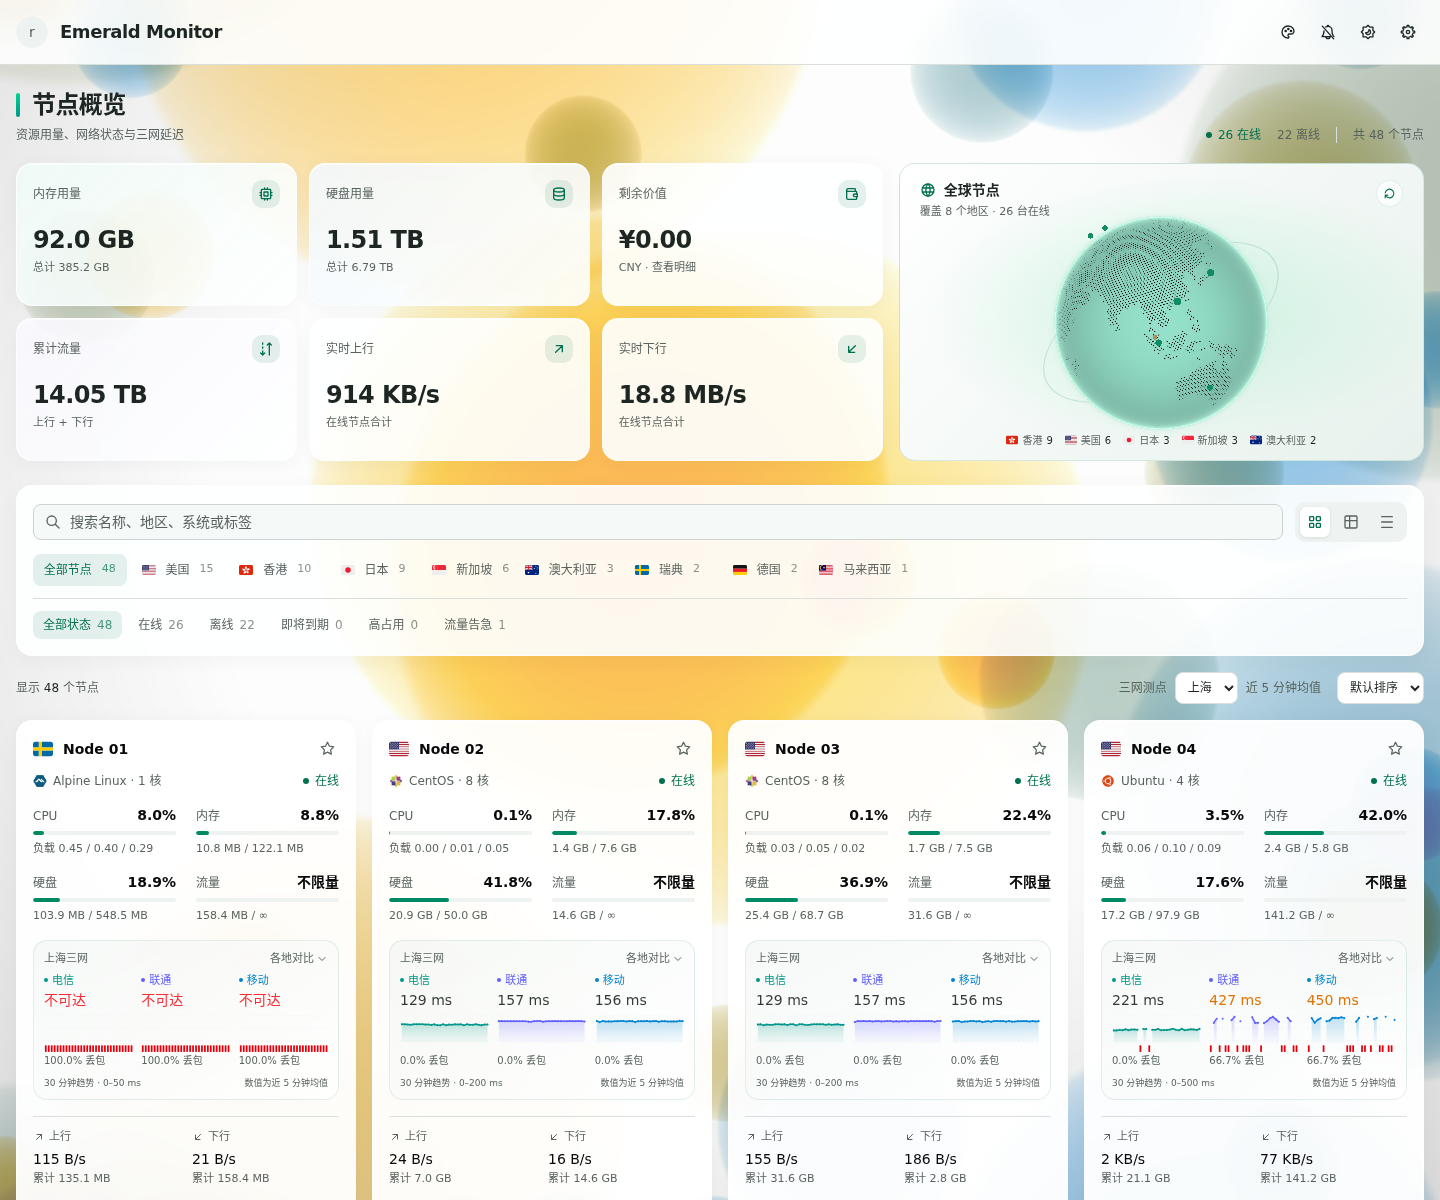
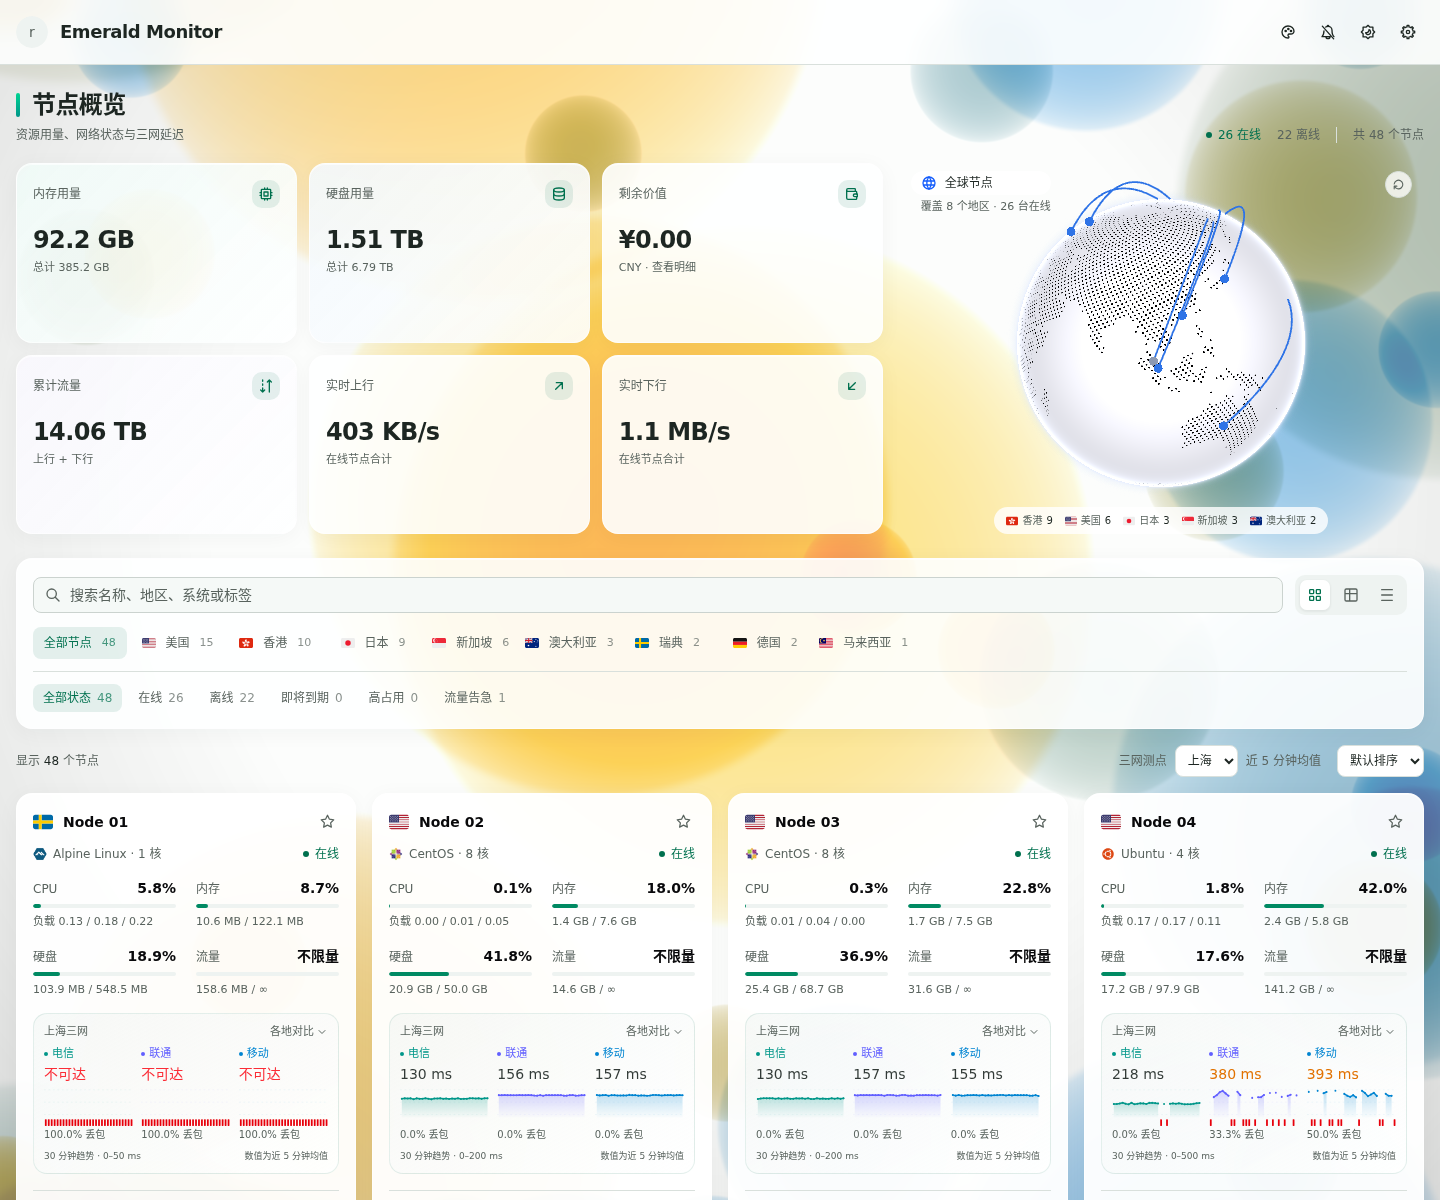
Restore the original silver and blue globe appearance

diff --git a/src/components/NodeEarthGlobe.vue b/src/components/NodeEarthGlobe.vue
@@ -1,5 +1,5 @@
 <script setup lang="ts">
-import type { COBEOptions, Globe } from 'cobe'
+import type { Arc, COBEOptions, Globe } from 'cobe'
 import type { NodeData } from '@/stores/nodes'
 import { Icon } from '@iconify/vue'
 import { useDocumentVisibility, useElementSize, useElementVisibility, useRafFn } from '@vueuse/core'
@@ -37,13 +37,20 @@ const regions = computed(() => {
 })
 const online = computed(() => props.nodes.filter(node => node.online).length)
 const colors = computed(() => app.isDark
-  ? { dark: 1, baseColor: [0.11, 0.29, 0.28], glowColor: [0.08, 0.21, 0.20], markerColor: [0.38, 1, 0.79], mapBrightness: 5.5 }
-  : { dark: 0, baseColor: [0.53, 0.80, 0.72], glowColor: [0.76, 0.92, 0.85], markerColor: [0.06, 0.55, 0.40], mapBrightness: 2.8 })
+  ? { dark: 1, baseColor: [0.12, 0.16, 0.3], glowColor: [0.05, 0.08, 0.2], markerColor: [0.4, 0.75, 1], arcColor: [0.4, 0.7, 1], mapBrightness: 8 }
+  : { dark: 0, baseColor: [0.97, 0.97, 1], glowColor: [0.9, 0.93, 1], markerColor: [0.18, 0.45, 0.9], arcColor: [0.18, 0.45, 0.9], mapBrightness: 7 })
 const markers = computed(() => regions.value.map(region => ({
   location: region.coord,
-  size: Math.min(0.085, 0.028 + Math.sqrt(region.total) * 0.009),
-  color: (region.online ? colors.value.markerColor : [0.70, 0.55, 0.35]) as [number, number, number],
+  size: 0.05,
+  color: (region.online ? colors.value.markerColor : [0.55, 0.60, 0.70]) as [number, number, number],
 })))
+
+// Region arcs retain the original globe's visual signature. They illustrate
+// geographic distribution, not measured network connections.
+const arcs = computed<Arc[]>(() => {
+  const [hub, ...others] = [...regions.value].sort((a, b) => b.total - a.total || a.code.localeCompare(b.code))
+  return hub ? others.map(region => ({ from: hub.coord, to: region.coord })) : []
+})
 
 const initialPhi = -Math.PI / 2 - 105 * Math.PI / 180
 let phi = initialPhi
@@ -57,12 +64,12 @@ let globe: Globe | undefined
 let dirty = true
 let paletteDirty = true
 function palette(): Partial<COBEOptions> {
-  return { ...colors.value, baseColor: colors.value.baseColor as [number, number, number], glowColor: colors.value.glowColor as [number, number, number], markerColor: colors.value.markerColor as [number, number, number] }
+  return { ...colors.value, baseColor: colors.value.baseColor as [number, number, number], glowColor: colors.value.glowColor as [number, number, number], markerColor: colors.value.markerColor as [number, number, number], arcColor: colors.value.arcColor as [number, number, number] }
 }
 function draw() {
   if (!globe)
     return
-  globe.update({ ...(paletteDirty ? { ...palette(), markers: markers.value } : {}), phi, theta, width: width.value || 320, height: height.value || 320 })
+  globe.update({ ...(paletteDirty ? { ...palette(), markers: markers.value, arcs: arcs.value } : {}), phi, theta, width: width.value || 320, height: height.value || 320 })
   paletteDirty = false
   dirty = false
 }
@@ -80,6 +87,12 @@ const { pause, resume } = useRafFn(({ delta }) => {
 }, { immediate: false, fpsLimit: 30 })
 const visible = computed(() => active.value && inView.value && visibility.value === 'visible' && !failed.value)
 watch(visible, value => value ? resume() : pause())
+watch(rotating, (value) => {
+  if (!value) {
+    targetPhi = phi
+    targetTheta = theta
+  }
+})
 watch([width, height], () => {
   dirty = true
 })
@@ -98,15 +111,20 @@ function start() {
       devicePixelRatio: Math.min(window.devicePixelRatio || 1, perfTier.value === 'low' ? 1 : 1.5),
       phi,
       theta,
-      diffuse: 1.35,
-      mapSamples: 18000,
+      diffuse: 1.6,
+      mapSamples: window.innerWidth < 768 ? 8000 : 14000,
       mapBrightness: colors.value.mapBrightness,
       dark: colors.value.dark,
       baseColor: colors.value.baseColor as [number, number, number],
       markerColor: colors.value.markerColor as [number, number, number],
       glowColor: colors.value.glowColor as [number, number, number],
       markers: markers.value,
-      scale: 1.02,
+      arcs: arcs.value,
+      arcColor: colors.value.arcColor as [number, number, number],
+      arcWidth: 1,
+      arcHeight: 0.4,
+      markerElevation: 0,
+      scale: 1,
       opacity: 1,
     })
     failed.value = false
@@ -165,50 +183,58 @@ onBeforeUnmount(() => {
 </script>
 
 <template>
-  <div class="network-globe relative isolate flex h-full min-h-64 flex-col overflow-hidden rounded-2xl border border-primary/15">
-    <div class="relative z-10 flex items-start justify-between px-5 pt-4">
+  <div class="network-globe relative isolate flex h-full min-h-64 flex-col">
+    <div class="absolute inset-x-0 top-0 z-10 flex items-start justify-between px-3 pt-2">
       <div>
-        <div class="flex items-center gap-2 text-sm font-semibold">
-          <Icon icon="tabler:world" width="16" class="text-primary" />全球节点
+        <div class="flex items-center gap-2 rounded-full bg-card/80 px-2.5 py-1 text-xs font-medium">
+          <Icon icon="tabler:world" width="16" class="text-blue-600 dark:text-sky-300" />全球节点
         </div>
-        <div class="mt-1 text-[11px] text-muted-foreground">
+        <div class="mt-1 pl-2.5 text-[11px] text-muted-foreground">
           覆盖 {{ regions.length }} 个地区 · {{ online }} 台在线
         </div>
       </div>
       <div v-if="!failed" class="flex items-center gap-1">
-        <button v-if="!app.stopEarth && perfTier !== 'low'" type="button" class="rounded-full border border-primary/10 bg-card/70 p-1.5 text-primary hover:bg-card focus-visible:outline-2" :aria-label="paused ? '继续地球旋转' : '暂停地球旋转'" @click="paused = !paused">
+        <button v-if="!app.stopEarth && perfTier !== 'low'" type="button" class="rounded-full border border-border bg-card/80 p-1.5 text-muted-foreground hover:bg-card focus-visible:outline-2" :aria-label="paused ? '继续地球旋转' : '暂停地球旋转'" @click="paused = !paused">
           <Icon :icon="paused ? 'tabler:player-play' : 'tabler:player-pause'" width="13" />
         </button>
-        <button type="button" aria-label="重置地球视角" class="rounded-full border border-primary/10 bg-card/70 p-1.5 text-primary hover:bg-card focus-visible:outline-2" @click="reset">
+        <button type="button" aria-label="重置地球视角" class="rounded-full border border-border bg-card/80 p-1.5 text-muted-foreground hover:bg-card focus-visible:outline-2" @click="reset">
           <Icon icon="tabler:rotate-clockwise" width="13" />
         </button>
       </div>
     </div>
-    <div ref="container" class="relative mx-auto -my-7 aspect-square w-[min(100%,260px)] flex-1">
-      <div class="globe-orbit pointer-events-none absolute inset-[13%] rounded-full border border-primary/15" aria-hidden="true" />
-      <canvas v-show="!failed" ref="canvas" tabindex="0" role="img" aria-label="全球节点分布地球，可拖动或使用左右方向键旋转" class="relative z-1 size-full cursor-grab touch-pan-y rounded-full focus-visible:outline-2 focus-visible:outline-primary active:cursor-grabbing" @pointerdown="pointerDown" @pointermove="pointerMove" @pointerup="pointerUp" @pointercancel="pointerUp" @keydown="keyRotate" @webglcontextlost.prevent="failed = true; pause()" @webglcontextrestored="start" />
+    <div ref="container" class="globe-stage relative mx-auto -mb-4 aspect-square w-[min(100%,360px)] shrink-0">
+      <div class="globe-halo pointer-events-none absolute inset-0" aria-hidden="true" />
+      <canvas v-show="!failed" ref="canvas" tabindex="0" role="img" aria-label="全球节点分布地球，可拖动或使用左右方向键旋转" class="relative z-1 size-full cursor-grab touch-pan-y focus-visible:outline-2 focus-visible:outline-primary active:cursor-grabbing" @pointerdown="pointerDown" @pointermove="pointerMove" @pointerup="pointerUp" @pointercancel="pointerUp" @keydown="keyRotate" @webglcontextlost.prevent="failed = true; pause()" @webglcontextrestored="start" />
       <div v-if="failed" class="absolute inset-[18%] flex items-center justify-center rounded-full border border-primary/20 bg-primary/5 text-primary">
         <Icon icon="tabler:world" width="100" />
       </div>
     </div>
-    <div class="relative z-10 mt-auto flex flex-wrap justify-center gap-x-3 gap-y-1.5 px-4 pb-3 pt-2 text-[10px] text-muted-foreground">
+    <div class="relative z-10 mx-auto mt-auto flex max-w-full flex-wrap justify-center gap-x-3 gap-y-1.5 rounded-full bg-card/80 px-3 py-1.5 text-[10px] text-muted-foreground">
       <span v-for="region in regions.slice(0, 5)" :key="region.code" class="flex items-center gap-1" :title="`${region.name}：${region.online} / ${region.total} 在线`"><img :src="`/images/flags/${region.code}.svg`" alt="" class="size-3">{{ region.name }}<span class="font-medium text-foreground">{{ region.online }}</span></span>
     </div>
   </div>
 </template>
 
 <style scoped>
-.network-globe {
-  background:
-    radial-gradient(ellipse at 55% 50%, oklch(0.91 0.065 165 / 0.65), transparent 65%),
-    linear-gradient(135deg, var(--card), var(--accent));
+.globe-stage canvas {
+  contain: layout paint;
 }
-:global(.dark) .network-globe {
-  background:
-    radial-gradient(ellipse at 55% 50%, oklch(0.4 0.085 165 / 0.6), transparent 65%),
-    linear-gradient(135deg, var(--card), var(--background));
+.globe-halo {
+  background: radial-gradient(
+    circle at 50% 50%,
+    oklch(0.6 0.15 250 / 0.16) 0%,
+    oklch(0.6 0.15 250 / 0.06) 38%,
+    oklch(0.6 0.15 250 / 0.12) 47%,
+    transparent 60%
+  );
 }
-.globe-orbit {
-  transform: rotate(-28deg) scaleX(1.35) scaleY(0.62);
+:global(.dark) .globe-halo {
+  background: radial-gradient(
+    circle at 50% 50%,
+    oklch(0.5 0.18 250 / 0.22) 0%,
+    oklch(0.5 0.18 250 / 0.08) 38%,
+    oklch(0.5 0.18 250 / 0.16) 47%,
+    transparent 62%
+  );
 }
 </style>

diff --git a/README.md b/README.md
@@ -5,13 +5,13 @@
 
 ![preview](/docs/preview.png)
 
-## 2.3：特色背景与三网趋势
+## 2.3.1：特色背景与三网趋势
 
 - 保留 Emerald 气泡、流体 Shader，右上角可切换气泡 / 流体 / 纯色，支持背景强度调节并记住选择。
 - 浅色与深色重新调整卡片层次、色彩和光影；搜索、健康筛选、排序、密度及置顶功能保持完整。
 - 电信、联通、移动三条趋势图同时显示，共用纵轴刻度，可统一切换测点地区。数值是近 5 分钟成功探测均值，曲线展示近 30 分钟历史，红条代表丢包，缺测留空。
 - 趋势使用一组共享的批量时序查询，每分钟更新；不为每个节点分别请求，也不在首页加载 ECharts。配对延迟与丢包样本后去除失败探测的 -1 贡献，避免把丢包当低延迟。
-- 地球以青绿色球体、光晕和轨道呈现真实节点分布，移除拥挤的悬浮流量标签；支持拖拽、方向键及暂停旋转。
+- 地球恢复原版浅色银白、深色蓝黑的材质与蓝色地区弧线，使用透明展示区；地区标签放在下方，保留拖拽、方向键及暂停旋转。地区弧线仅作分布展示，不代表实测网络连接。
 - 后台标签页和不可见地球暂停绘制；低性能设备及减少动态效果偏好使用静态画面。背景只异步加载所选 Shader，保留自定义图片/视频。
 - 预览图使用示例节点名称。需要 Komari 2.0 的 `points_v1` 时序接口。
 
